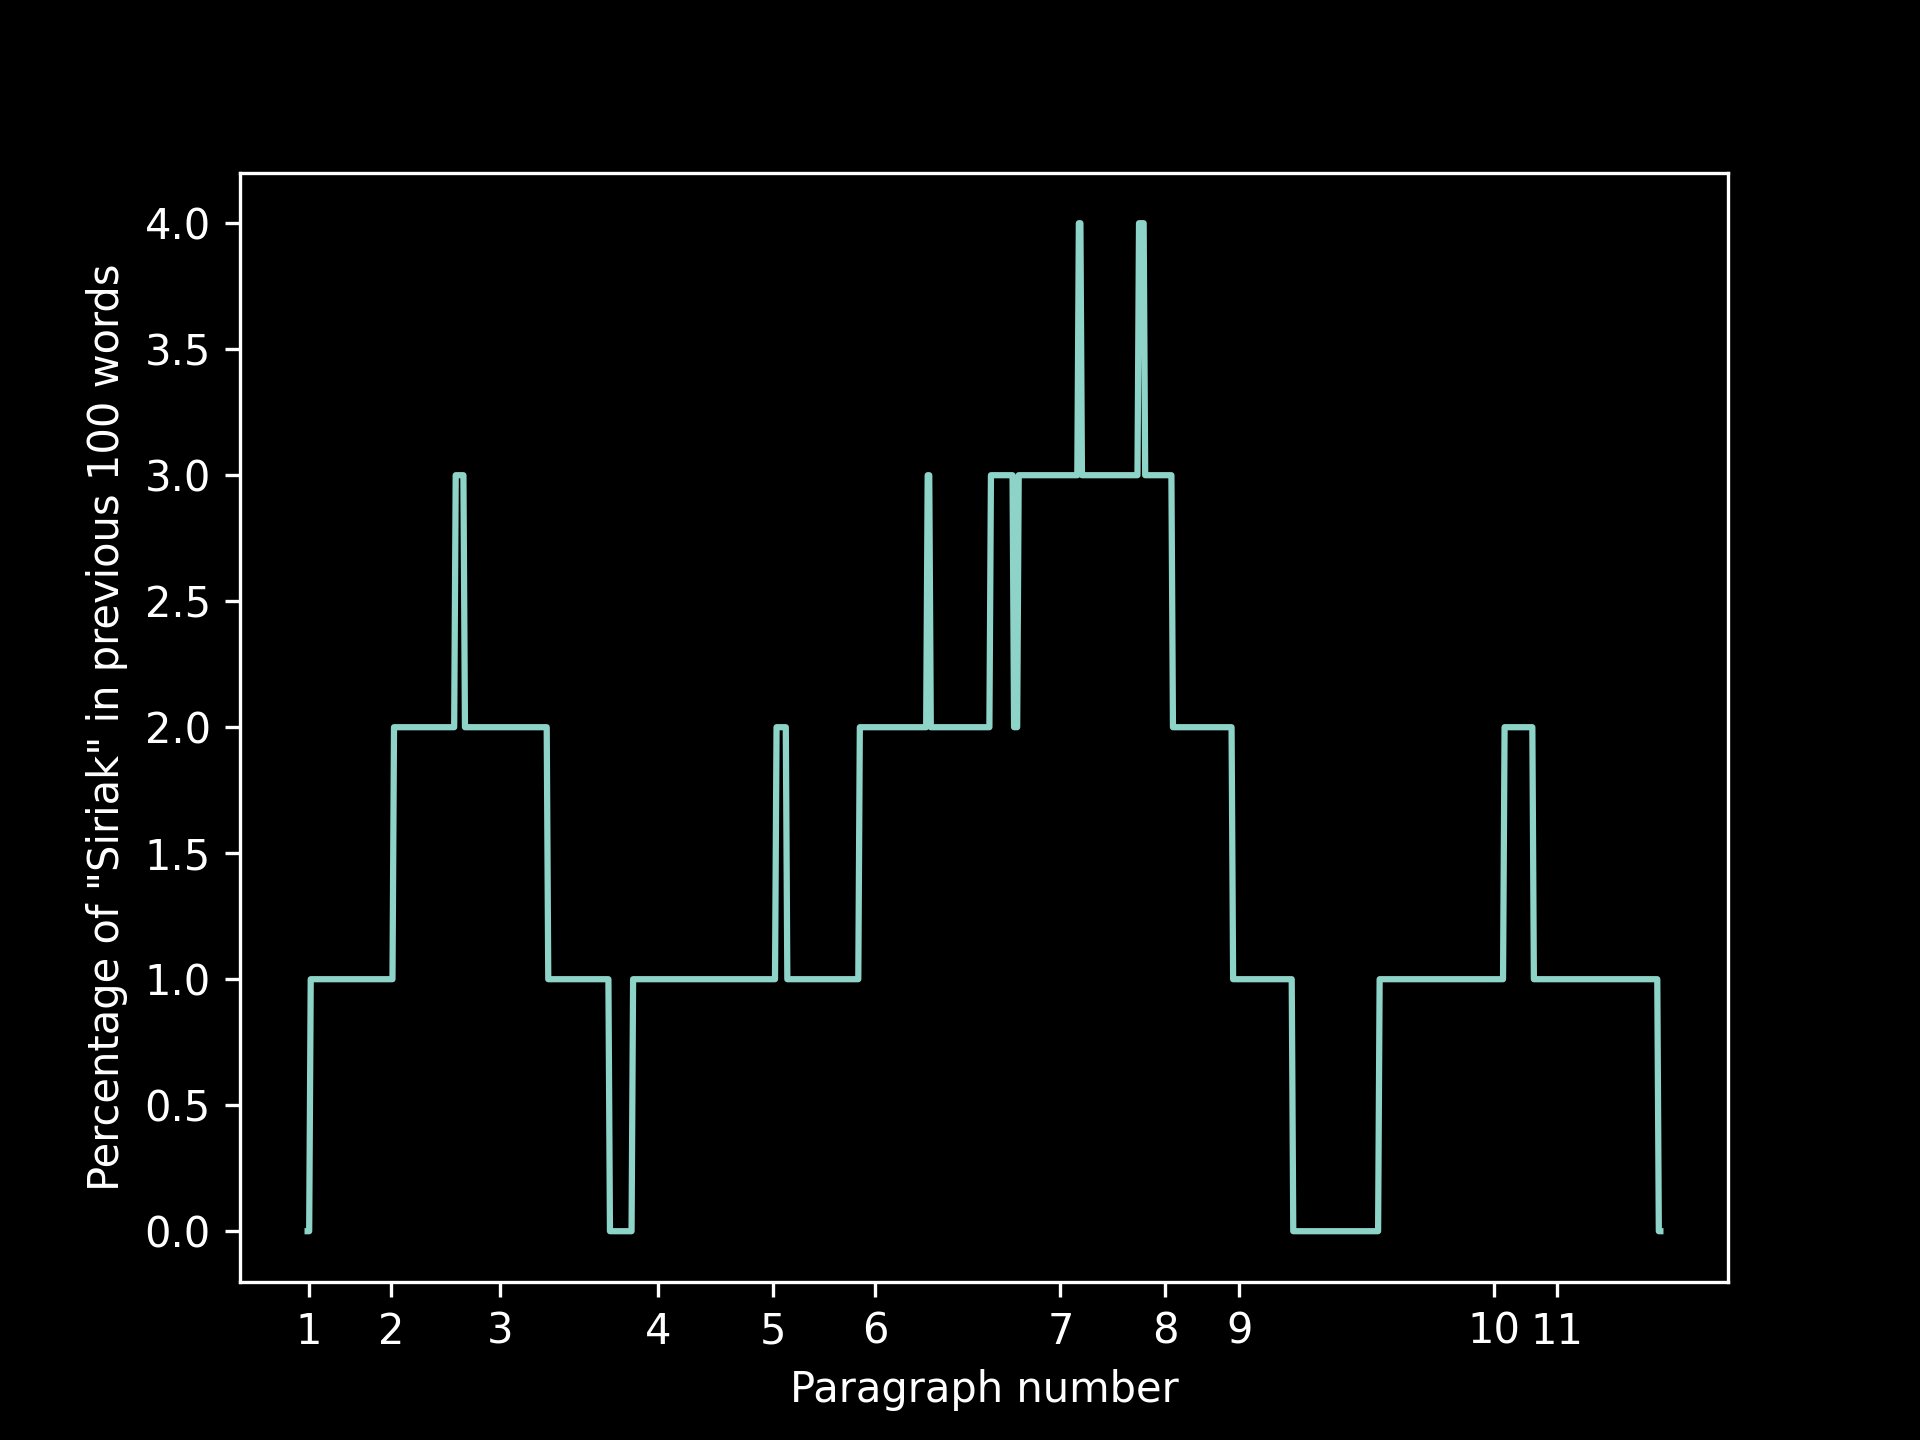
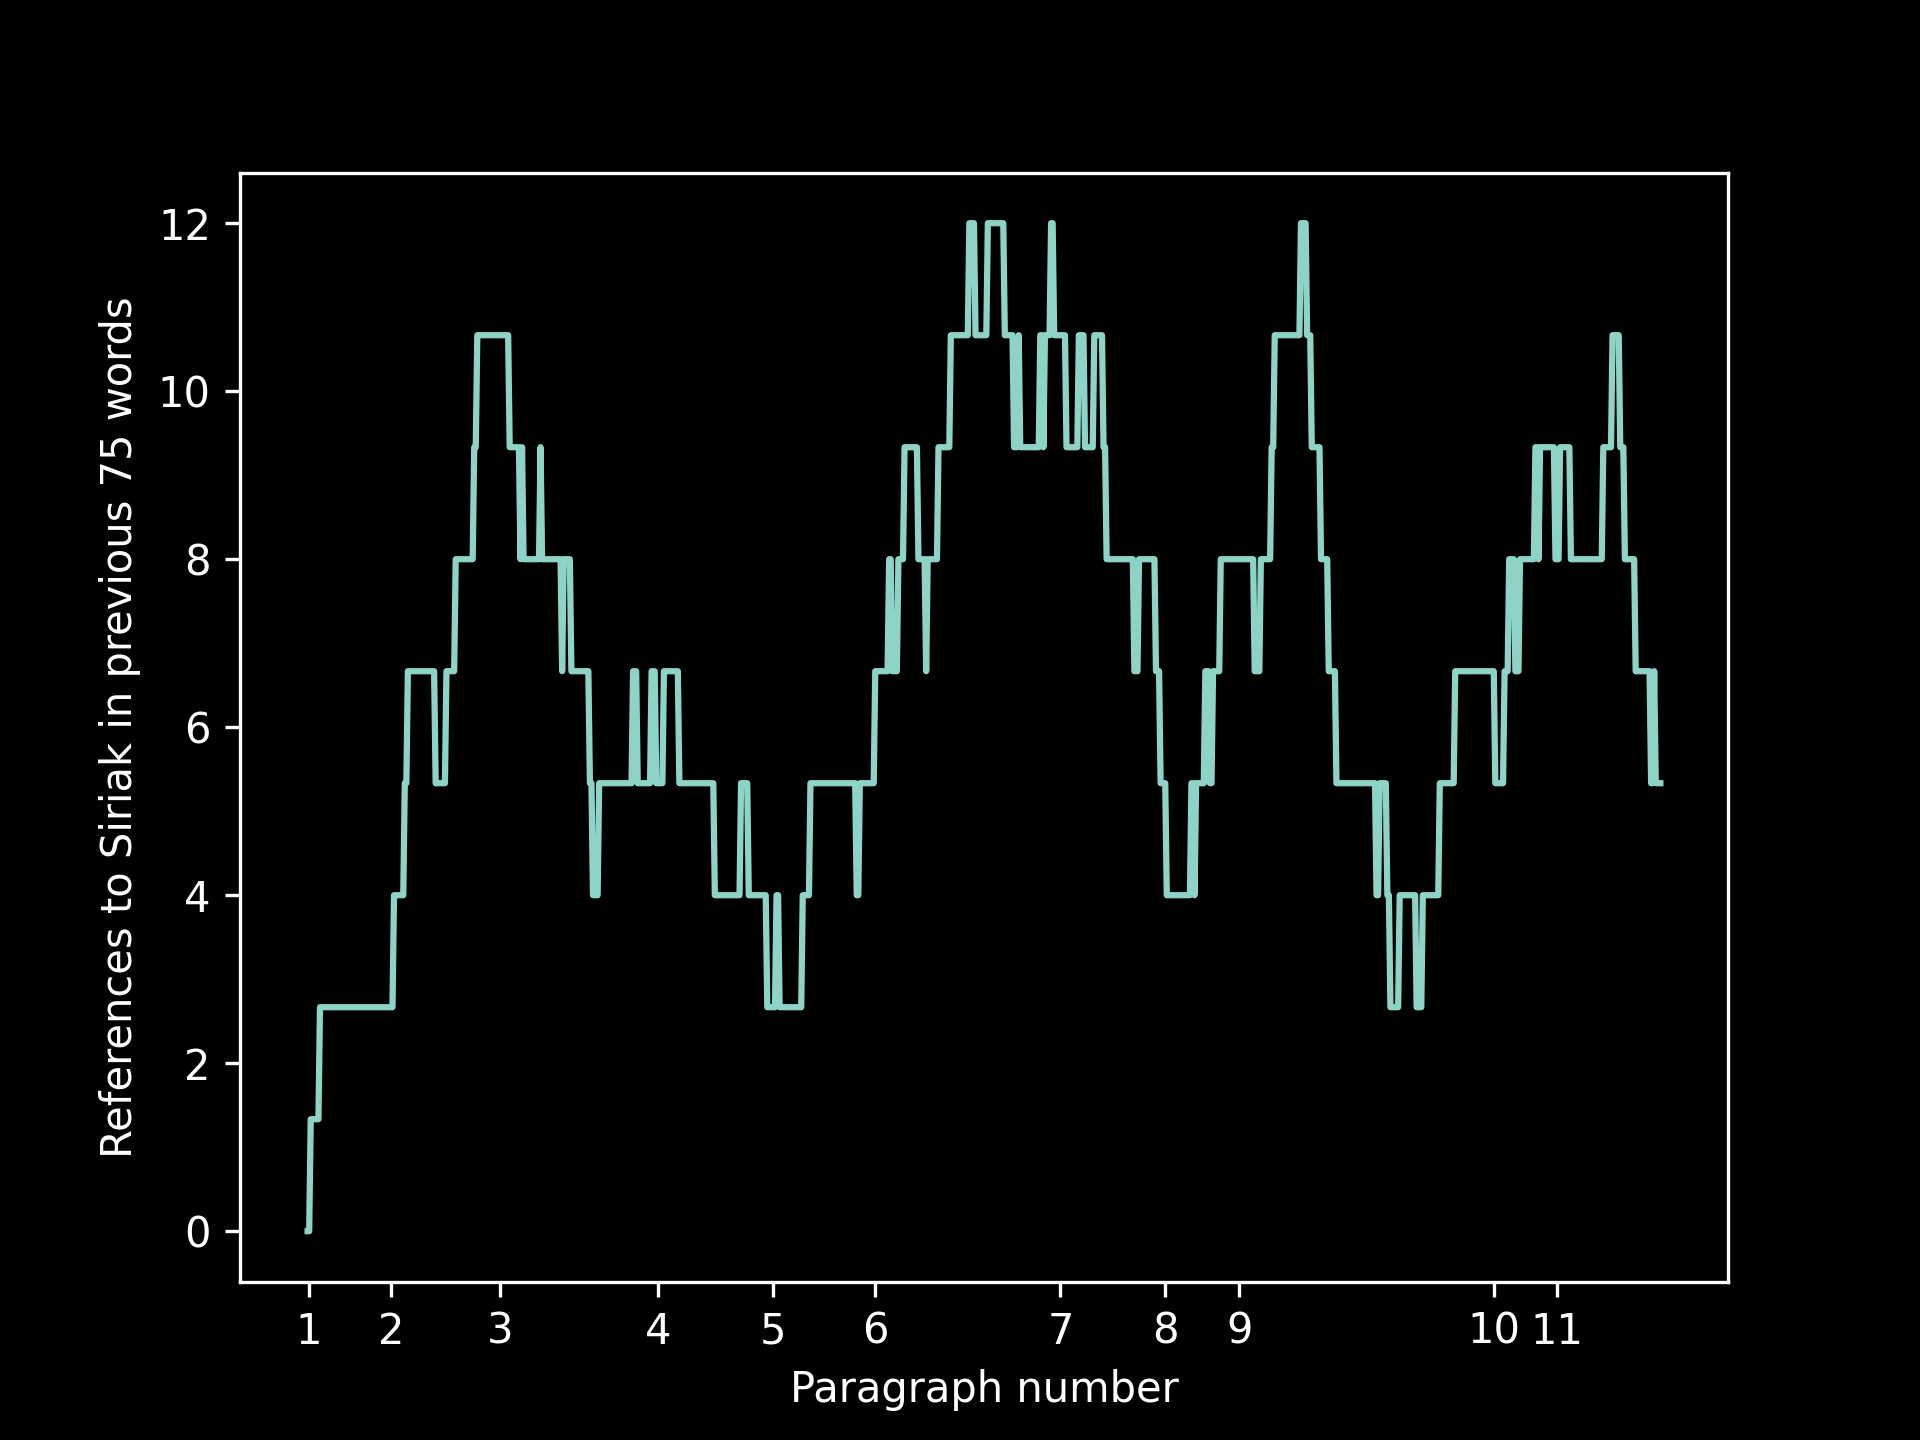
also count 'he' and 'him'

diff --git a/process.py b/process.py
@@ -1,4 +1,4 @@
-ROLLING_DISTANCE = 100
+ROLLING_DISTANCE = 75
 
 from matplotlib import pyplot as plt
 from re import sub
@@ -13,11 +13,12 @@ text = text.split(' ')                                                          
 text = list(filter(lambda w: len(w), text))                                     # remove empty "words"
 paragraphs = [1]+[i for i,v in enumerate(text) if v[-1] == '\n']                # get paragraph indices by word number
 percent_of_prev_fifty = [                                                       # calculate statistics:
-        text[max(i-ROLLING_DISTANCE, 0):i].count('siriak')  # num of previous ROLLING_DISTANCE words that are 'siriak'
-        /ROLLING_DISTANCE *100 for i in range(len(text))]   # converted to percent, for every word index
+        len(list(filter(lambda w: w in ['siriak', 'he', 'his'],                 # count number of "valid" words
+        text[max(i-ROLLING_DISTANCE, 0):i])))                                   # of the previous ROLLING_DISTANCE words
+        /ROLLING_DISTANCE *100 for i in range(len(text))]                       # converted to percent, for every word index
 plt.style.use('dark_background')                                                # dark mode
 plt.plot(percent_of_prev_fifty)                                                 # plot rolling average
-plt.ylabel(f'Percentage of "Siriak" in previous {ROLLING_DISTANCE} words')      # set axis labels
+plt.ylabel(f'References to Siriak in previous {ROLLING_DISTANCE} words')        # set axis labels
 plt.xlabel('Paragraph number')
 plt.xticks(paragraphs, range(1, len(paragraphs)+1))                             # show paragraph markers
 plt.savefig('chart', dpi=300)                                                   # save as image
